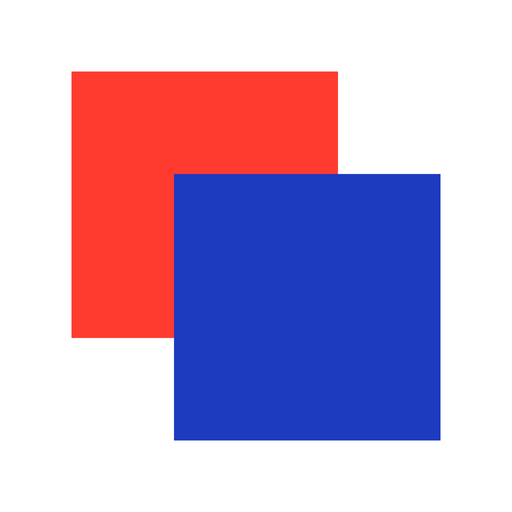
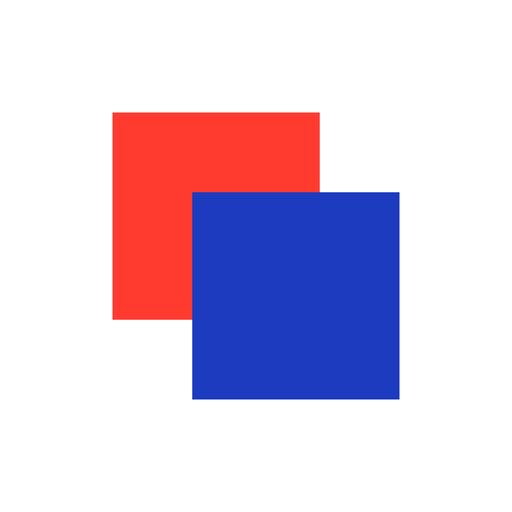
홈 화면 아이콘: 빨강·파랑 사각형을 작게(72%→54%) 해 여백 균형, 캐시 v=5
Claude-Session: https://claude.ai/code/session_01L9bvmA6z94PCv61yveBvbv

Changed region(s): [[0.125, 0.125, 0.875, 0.875]]

diff --git a/public/index.html b/public/index.html
@@ -26,7 +26,7 @@
     <link rel="icon" href="favicon.ico?v=4" sizes="48x48">
     <link rel="icon" type="image/svg+xml" href="favicon.svg?v=4">
     <link rel="icon" type="image/png" sizes="32x32" href="favicon-32.png?v=4">
-    <link rel="apple-touch-icon" href="apple-touch-icon.png?v=4">
+    <link rel="apple-touch-icon" href="apple-touch-icon.png?v=5">
     <link rel="manifest" href="manifest.json">
     <link rel="preconnect" href="https://cdn.jsdelivr.net" crossorigin>
     <link rel="stylesheet" href="https://cdn.jsdelivr.net/npm/pretendard@1.3.9/dist/web/variable/pretendardvariable-dynamic-subset.min.css">
